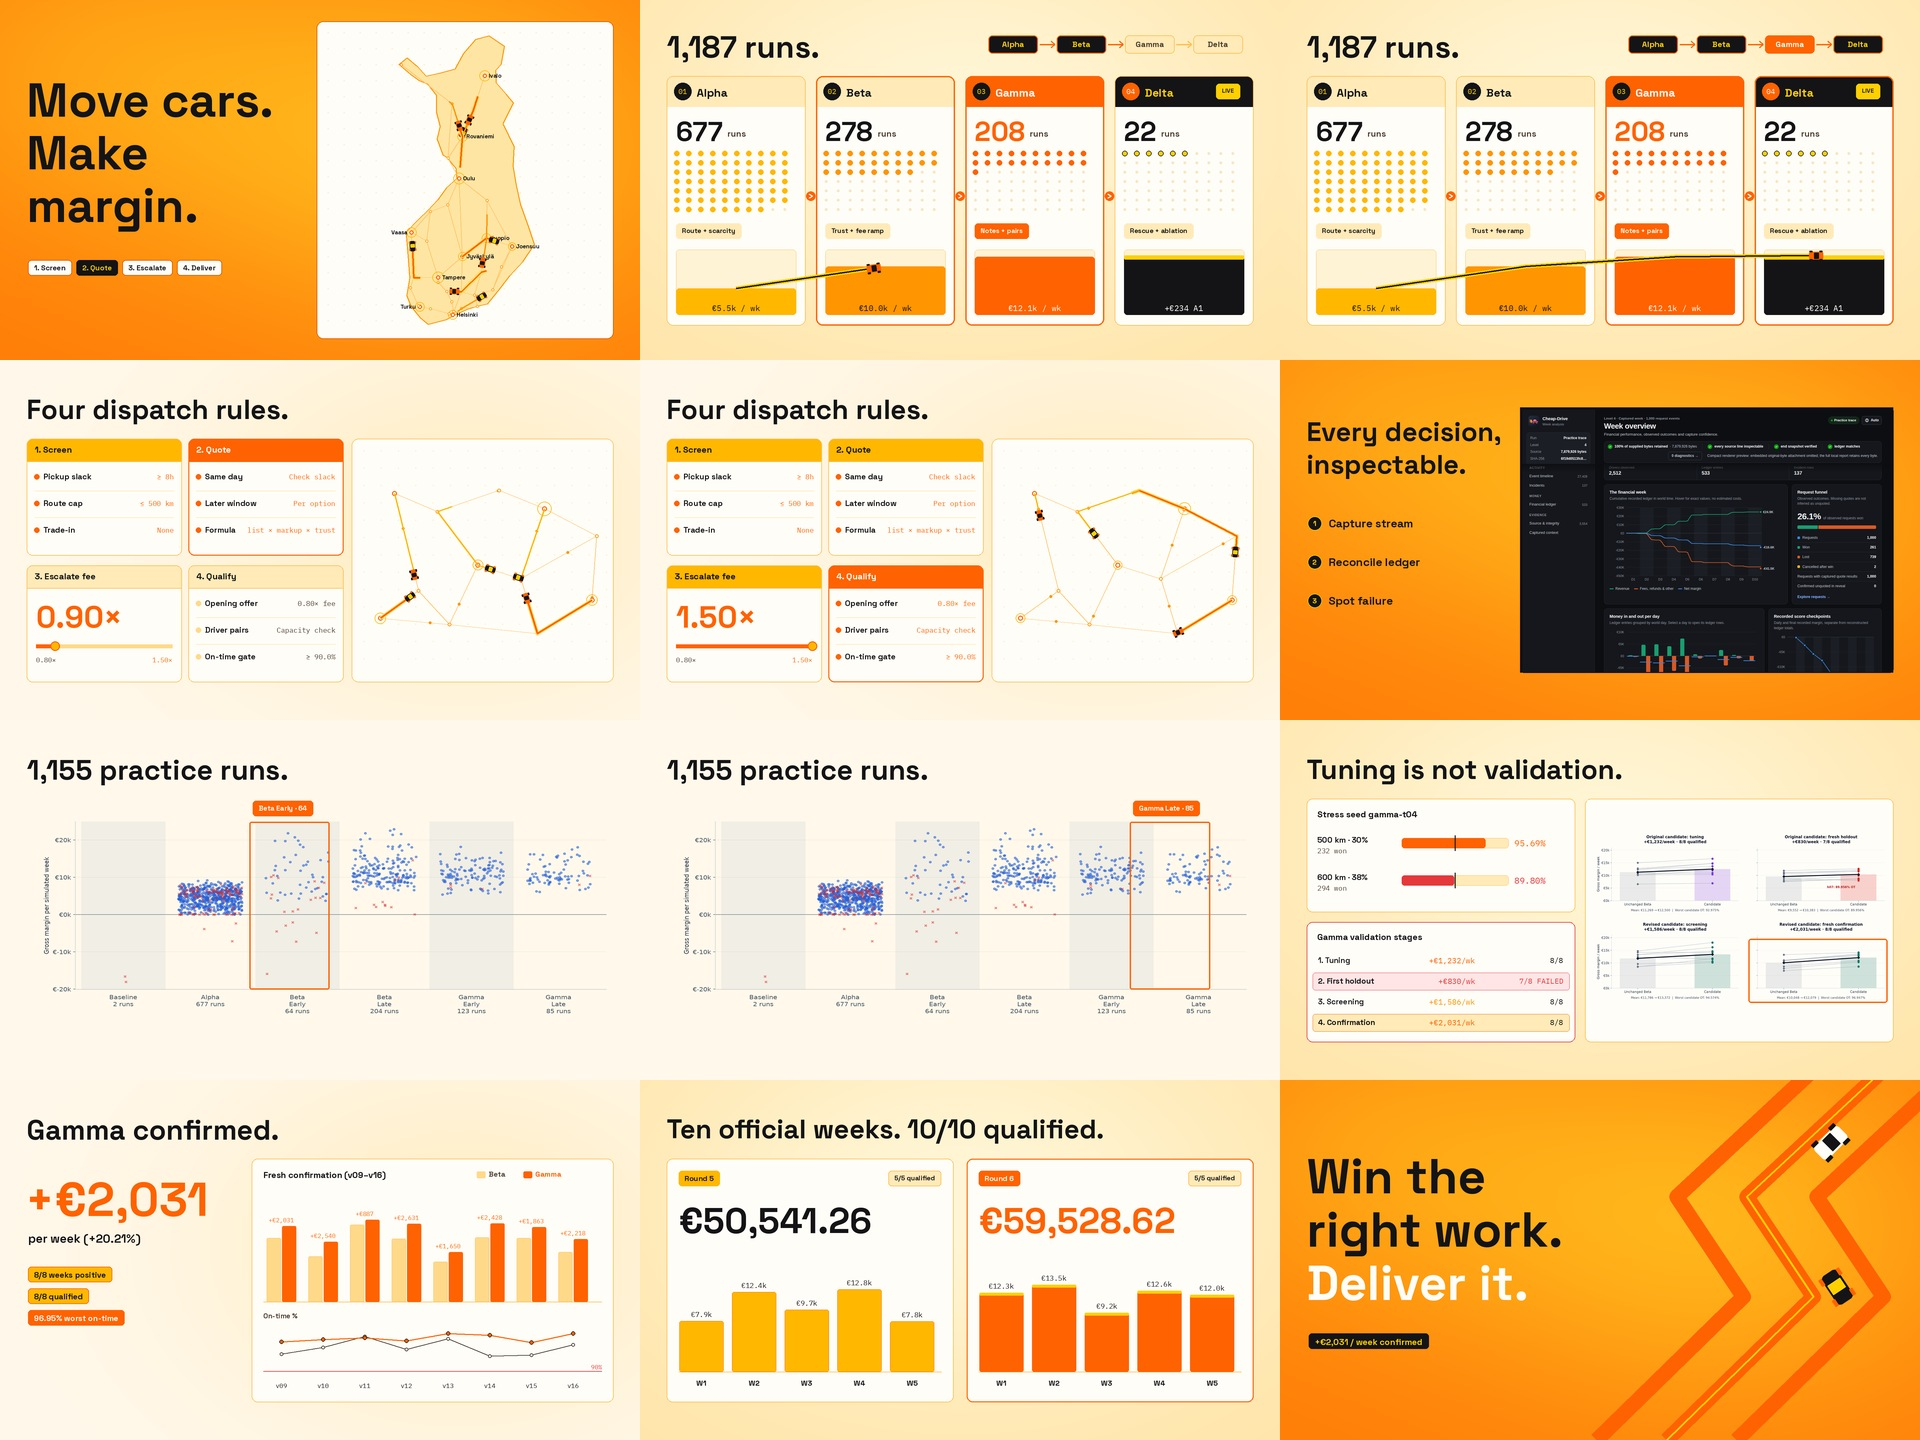
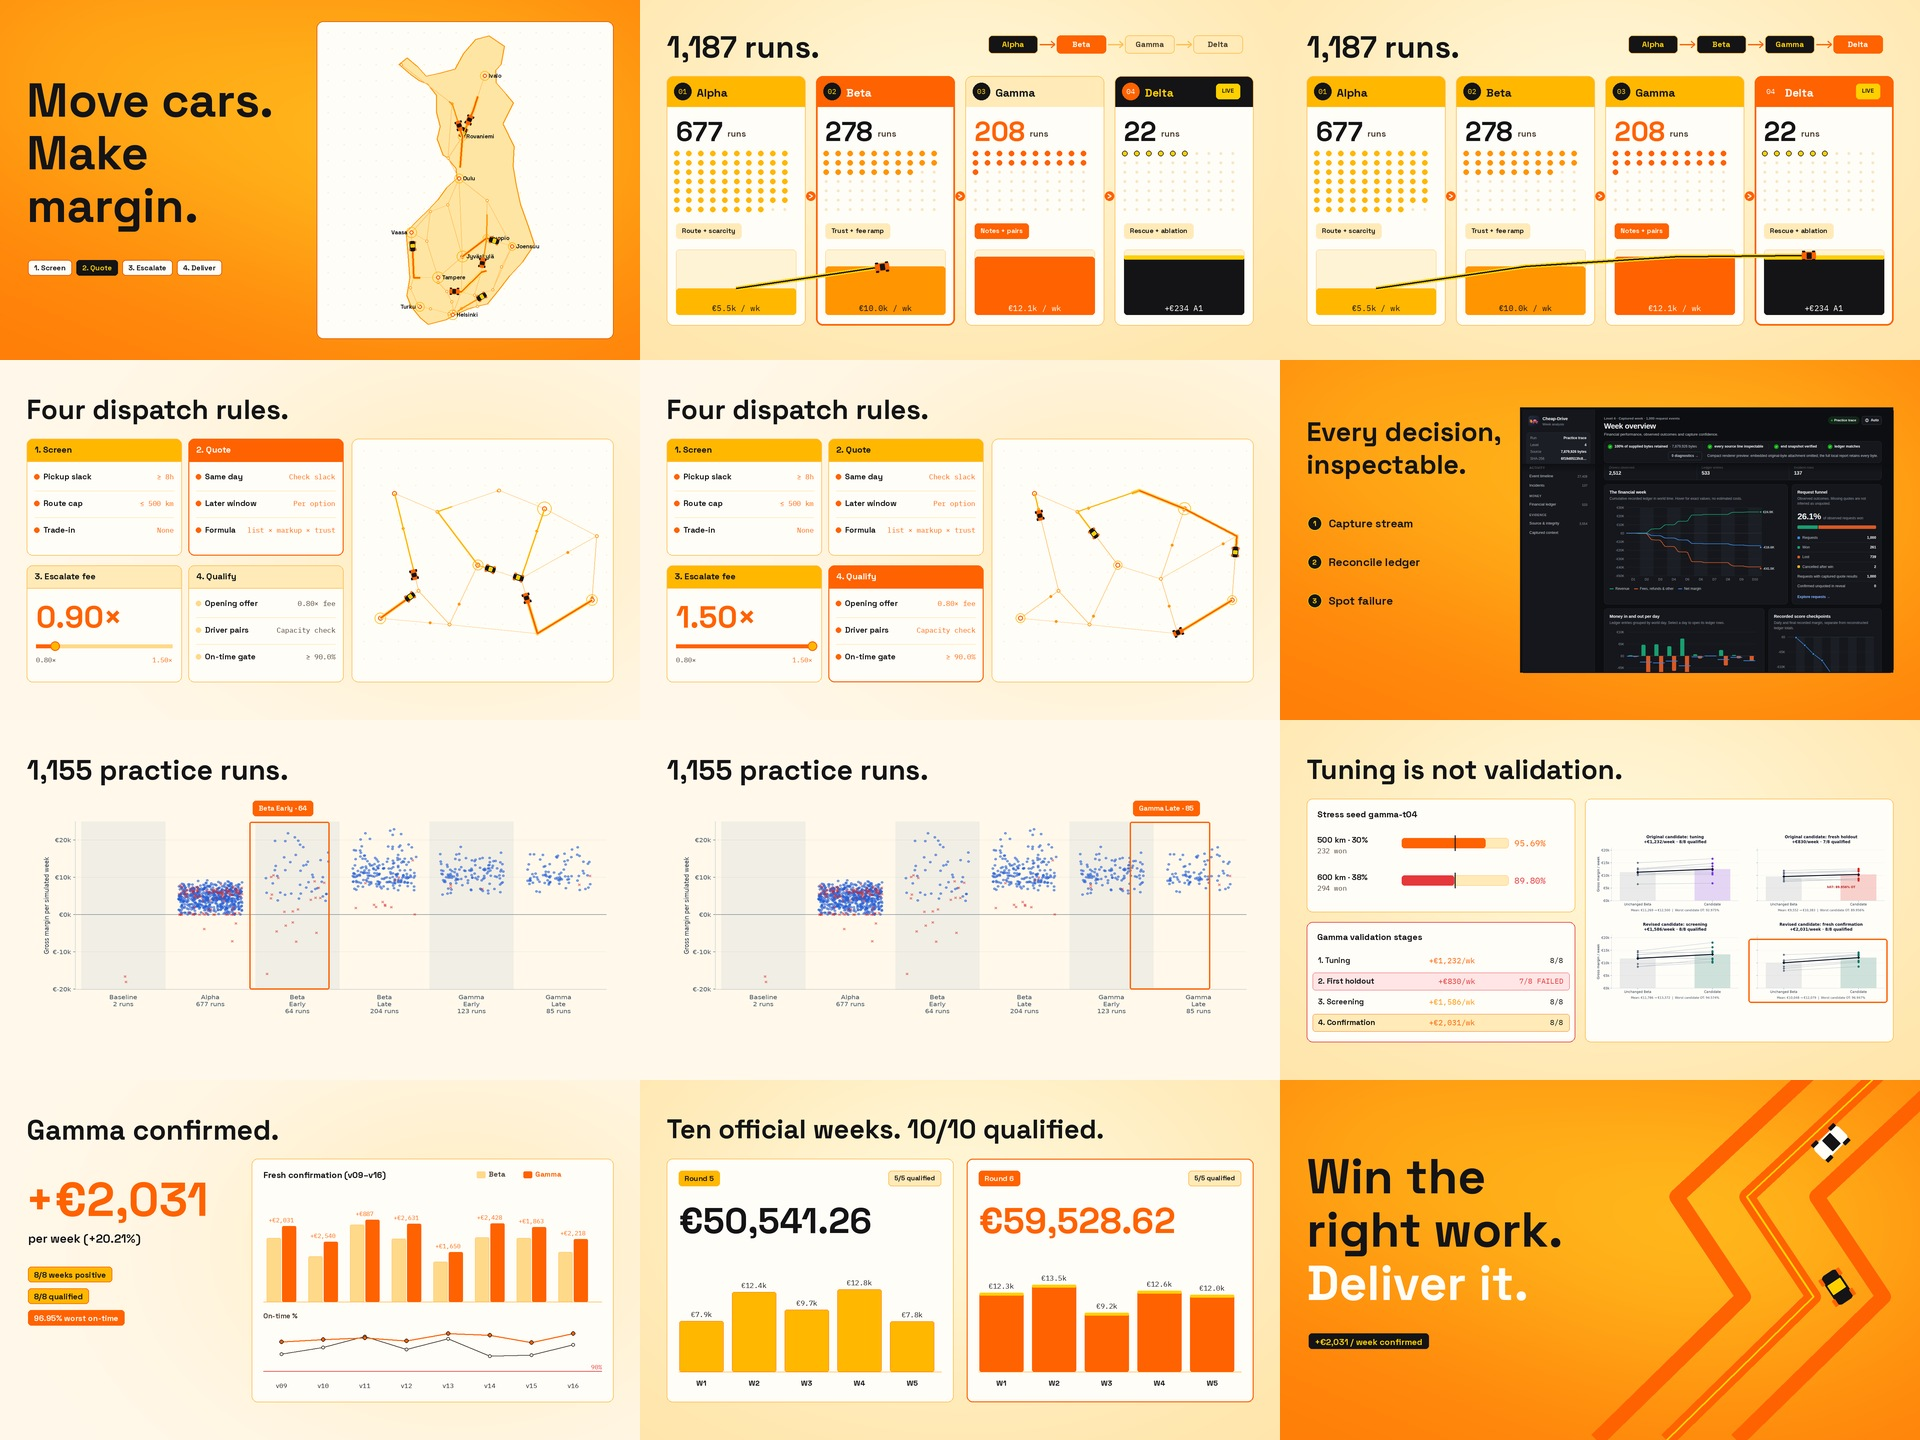
fix(demo-video): remove static Gamma outline so only the active car's card highlights

Changed region(s): [[0.6875, 0.0, 1.0, 0.0938], [0.3438, 0.0, 0.5938, 0.0938]]

diff --git a/docs/demo-video/render.py b/docs/demo-video/render.py
@@ -432,20 +432,24 @@ def evolution(t):
     total_runs = round(1187 * ease(t / 0.9))
     enter(im, f'{total_runs:,} runs.', 80, 82, 92, t, 0.05, color=INK, weight=700)
 
+    p_car = clamp((t - 0.6) / 5.8)
+    focus_idx = min(3, round(p_car * 3))
+
     # Top-right graphical Alpha -> Beta -> Gamma -> Delta chain
     chain_names = ['Alpha', 'Beta', 'Gamma', 'Delta']
     chain_x = 1045
     for i, nm in enumerate(chain_names):
         bx = chain_x + i * 205
-        act = t >= i * 1.4
-        bg_c = ORANGE if (act and i == 2) else (INK if act else APRICOT)
-        fg_c = CARD if (act and i == 2) else (SUNBURST if act else MUTED_INK)
-        rect(im, (bx, 106, bx + 148, 160), bg_c, outline=ORANGE if act else GOLD_LINE, r=12, width=3 if act else 2)
+        act = i <= focus_idx
+        is_cur = i == focus_idx
+        bg_c = ORANGE if is_cur else (INK if act else APRICOT)
+        fg_c = CARD if is_cur else (SUNBURST if act else MUTED_INK)
+        rect(im, (bx, 106, bx + 148, 160), bg_c, outline=ORANGE if is_cur else GOLD_LINE, r=12, width=3 if is_cur else 2)
         txt(im, nm, bx + 74, 133, 24, fg_c, weight=700, anchor='mm')
         if i < 3:
             ax1, ax2 = bx + 154, bx + 199
-            line(im, [(ax1, 133), (ax2, 133)], ORANGE if act else GOLD_LINE, 4)
-            line(im, [(ax2 - 11, 123), (ax2, 133), (ax2 - 11, 143)], ORANGE if act else GOLD_LINE, 4)
+            line(im, [(ax1, 133), (ax2, 133)], ORANGE if i < focus_idx else GOLD_LINE, 4)
+            line(im, [(ax2 - 11, 123), (ax2, 133), (ax2 - 11, 143)], ORANGE if i < focus_idx else GOLD_LINE, 4)
 
     # 4 prototype columns: (num_tag, name, runs, dots_count, margin_eur, tag, accent_col)
     protos = [
@@ -461,16 +465,16 @@ def evolution(t):
         cw = 416
         cy, cy2 = 228, 976
         appear = ease((t - 0.15 - i * 0.25) / 0.55)
-        is_focus = int(clamp(t / 1.8, 0, 3.99)) == i
+        is_focus = i == focus_idx
         is_gamma = i == 2
         is_delta = i == 3
 
         rect(im, (cx, cy, cx + cw, cy2), CARD, None, r=20)
-        hdr_bg = ORANGE if is_gamma else (INK if is_delta else APRICOT)
-        hdr_fg = CARD if is_gamma else (SUNBURST if is_delta else INK)
+        hdr_bg = ORANGE if is_focus else (INK if is_delta else (MARIGOLD if i < focus_idx else APRICOT))
+        hdr_fg = CARD if is_focus else (SUNBURST if is_delta else INK)
         rect(im, (cx, cy, cx + cw, cy + 92), hdr_bg, None, r=20)
         rect(im, (cx, cy + 70, cx + cw, cy + 92), hdr_bg, None, r=0)
-        rect(im, (cx, cy, cx + cw, cy2), None, ORANGE if (is_focus or is_gamma) else GOLD_LINE, r=20, width=4 if (is_focus or is_gamma) else 2)
+        rect(im, (cx, cy, cx + cw, cy2), None, ORANGE if is_focus else GOLD_LINE, r=20, width=5 if is_focus else 2)
 
         # Stage number & Name
         circle(im, cx + 48, cy + 46, 26, INK if not is_delta else ORANGE)
@@ -525,8 +529,7 @@ def evolution(t):
             line(im, [(ax - 5, ay - 6), (ax + 5, ay), (ax - 5, ay + 6)], CARD if appear > 0.8 else MUTED_INK, 3)
 
     # Trajectory curve & climbing car across the 4 prototypes
-    if len(curve_pts) > 1 and t > 0.8:
-        p_car = clamp((t - 0.8) / 5.5)
+    if len(curve_pts) > 1 and t > 0.6:
         path_partial(im, curve_pts, p_car, INK, 5, glow=SUNBURST)
         q = route_point(curve_pts, p_car)
         ahead = route_point(curve_pts, min(p_car + 0.01, 1.0))
